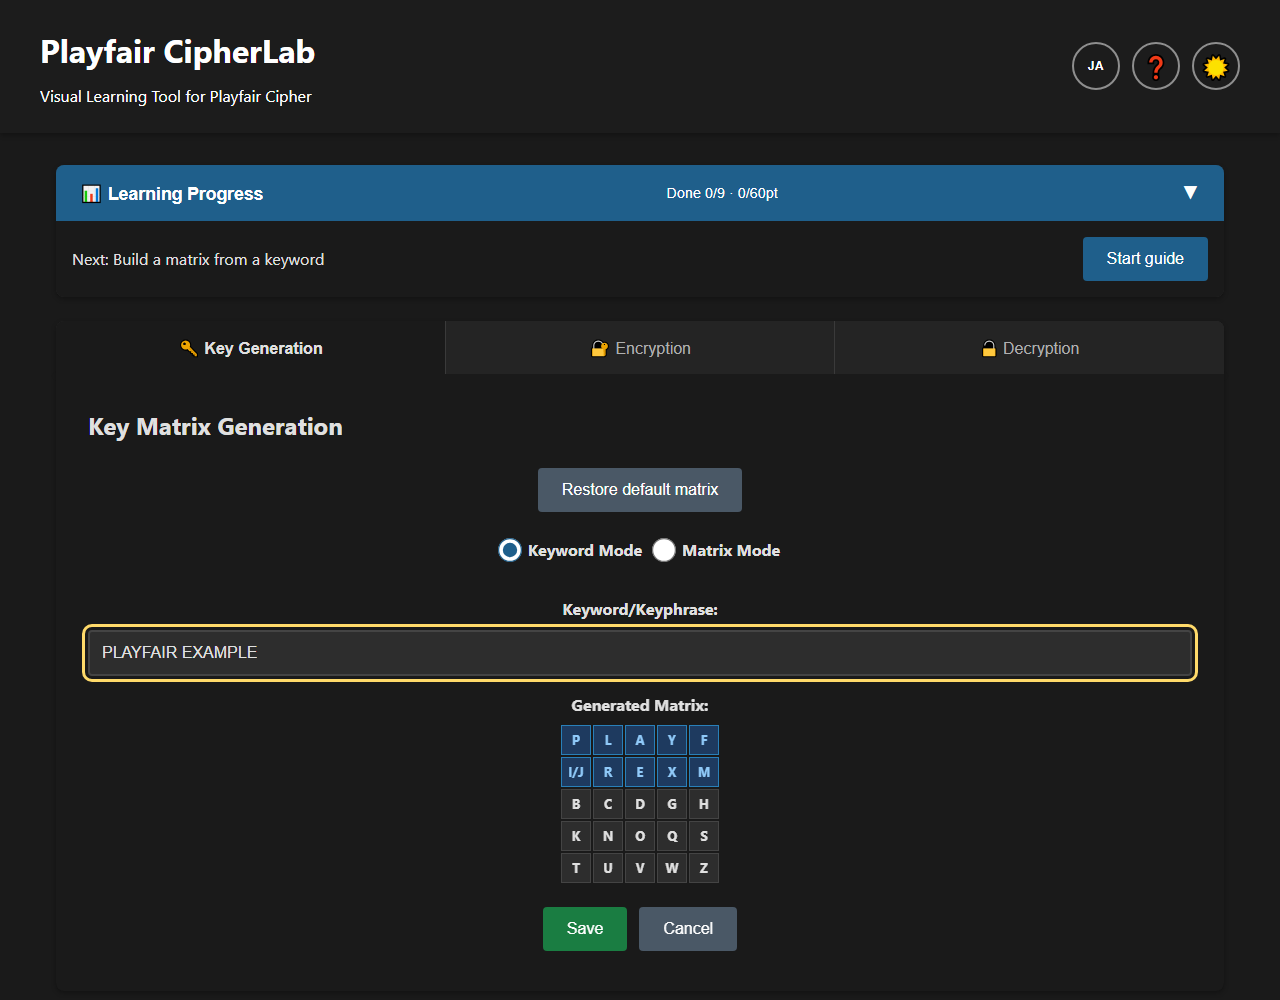
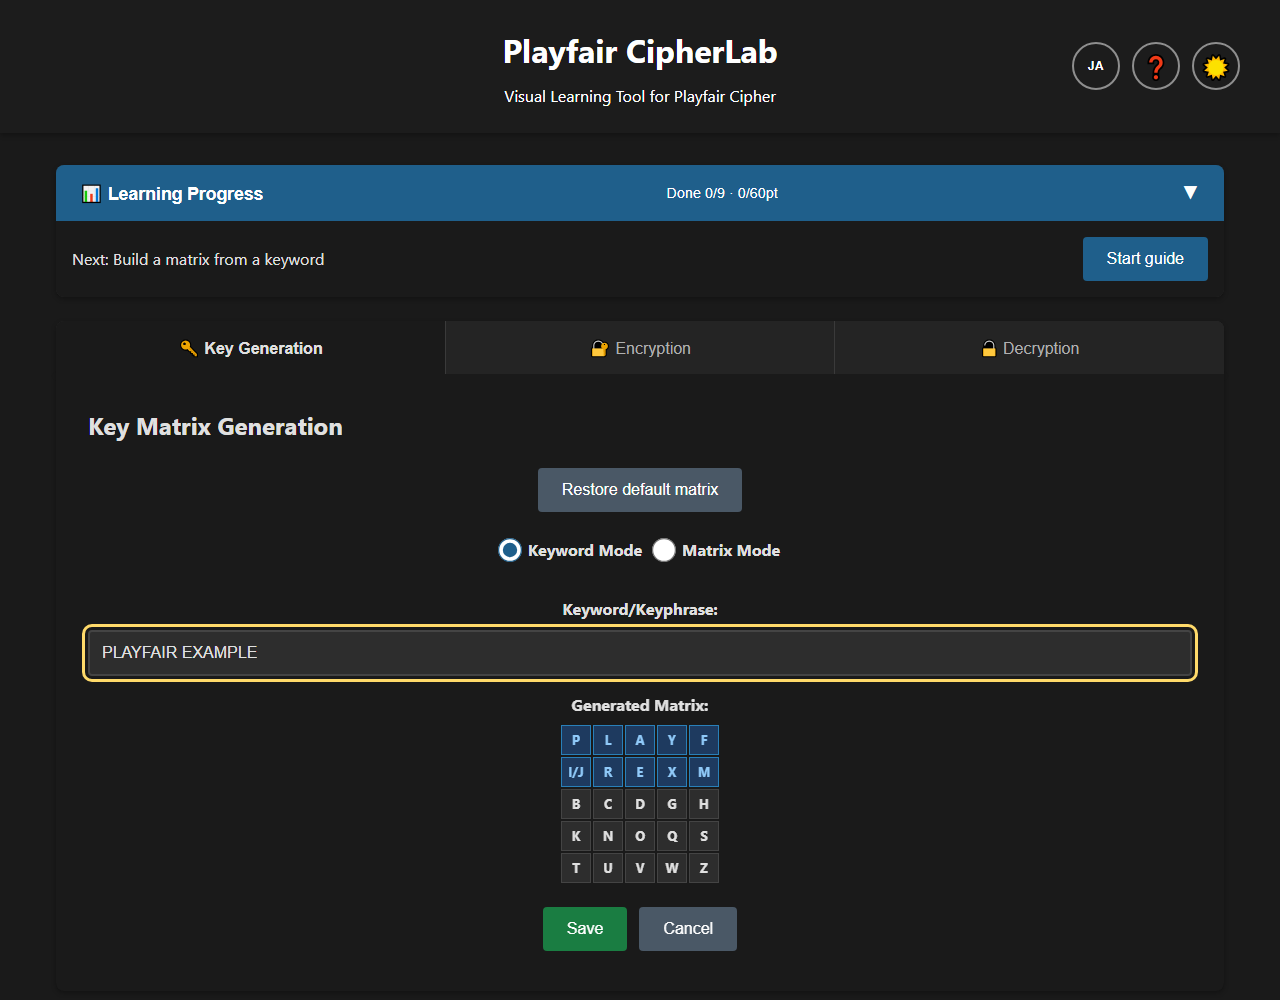
ヘッダーを中央に揃え、案内とフッターを改善

diff --git a/js/i18n.js b/js/i18n.js
@@ -29,7 +29,7 @@ class I18nManager {
                 "guide.complete": "達成しました",
                 "guide.advanced": "手順{n}に進みました",
                 "guide.previous": "前の手順を先に済ませてください",
-                "guide.restart": "『最初から』を押してから、『次』で1組ずつ進めてください",
+                "guide.restart": "『🔄 最初から再生』を押してから、『次』で1組ずつ進めてください",
                 "guide.disabled": "このボタンはいまは押せません。手順の文を確かめてください",
                 "guide.m3.remaining": "まだ見ていない規則: {rules}",
                 "guide.m3.missing": "この文には{rules}の組がありません。例文『既知の例』→『Wikipediaの例』なら3つともそろいます",
@@ -121,10 +121,8 @@ class I18nManager {
                 'decrypt-rule.no-change': '変種: 同じ文字のまま',
                 'decrypt-rule.right-shift': '変種: 左隣の文字へ戻す',
                 'decrypt-rule.bottom-right': '変種: 左上の文字へ戻す',
-                'footer.html':
-                    '🔗 GitHubリポジトリー（' +
-                    '<a href="https://github.com/ipusiron/playfair-cipherlab" ' +
-                    'target="_blank" rel="noopener noreferrer">ipusiron/playfair-cipherlab</a>）',
+                'footer.prefix': '🔗 GitHubリポジトリー（',
+                'footer.suffix': '）',
                 'help.body': `
 <section>
 <h3>鍵表と標準の規則</h3>
@@ -137,7 +135,7 @@ class I18nManager {
 <p>同じ文字の組を分割しない設定は標準ではありません。変化なし、右隣、右下の3つの変種を選べます。復号にも同じ変種を指定してください。</p>
 </section>
 <section><h3>再生と埋め文字の候補</h3>
-<p>前、再生、一時停止、次、最初から、最後までで組ごとの変換を確認できます。下線は追加した埋め文字です。</p>
+<p>前、再生、一時停止、次、🔄 最初から再生、最後までで組ごとの変換を確認できます。下線は追加した埋め文字です。</p>
 <p>復号の点線下線は埋め文字の候補です。候補を除いた文も並べますが、復号結果から自動では消しません。</p>
 <p>THE QUICK BROWN FOXの最後のXは本物ですが候補になります。候補を除くとTHEQUICKBROWNFOになり、元の文を失います。</p>
 </section>
@@ -558,10 +556,8 @@ class I18nManager {
                 'decrypt-rule.no-change': 'Variant: leave identical letters unchanged',
                 'decrypt-rule.right-shift': 'Variant: restore identical letters from the left',
                 'decrypt-rule.bottom-right': 'Variant: restore identical letters from the top left',
-                'footer.html':
-                    '🔗 GitHub repository (' +
-                    '<a href="https://github.com/ipusiron/playfair-cipherlab" ' +
-                    'target="_blank" rel="noopener noreferrer">ipusiron/playfair-cipherlab</a>)',
+                'footer.prefix': '🔗 GitHub repository (',
+                'footer.suffix': ')',
                 'help.body': `
 <section>
 <h3>Key matrix and standard rules</h3>
@@ -575,7 +571,7 @@ Decryption shifts left and up.</p>
 <p>Not splitting identical-letter pairs is nonstandard. Choose no change, right shift, or bottom-right shift. Use the same variant for decryption.</p>
 </section>
 <section><h3>Playback and padding candidates</h3>
-<p>Use Previous, Play, Pause, Next, Restart, and Go to end to inspect each pair. Underlines mark inserted padding.</p>
+<p>Use Prev, Play, Pause, Next, Restart Animation, and Go to end to inspect each pair. Underlines mark inserted padding.</p>
 <p>Dotted underlines in decrypted text mark possible padding. A separate line excludes these candidates, but the full decryption is never shortened
 automatically.</p>
 <p>The final X in THE QUICK BROWN FOX is genuine but is marked as a candidate. Removing it gives THEQUICKBROWNFO, losing part of the original message.</p>
@@ -1119,7 +1115,13 @@ automatically.</p>
     updateFooter() {
         const footerElement = document.querySelector('footer .footer');
         if (footerElement) {
-            footerElement.innerHTML = this.t('footer.html');
+            const link = document.createElement('a');
+            link.href = 'https://github.com/ipusiron/playfair-cipherlab';
+            link.target = '_blank';
+            link.rel = 'noopener noreferrer';
+            link.textContent = this.t('footer.link');
+            footerElement.textContent = this.t('footer.prefix');
+            footerElement.append(link, this.t('footer.suffix'));
         }
     }
 

diff --git a/test/i18n.test.js b/test/i18n.test.js
@@ -7,6 +7,55 @@ const root = path.join(__dirname, '..');
 const read = file => fs.readFileSync(path.join(root, file), 'utf8');
 const dictionaries = vm.runInNewContext(read('js/i18n.js') + '; i18n.translations;', {});
 
+test('C-1 footer construction does not use innerHTML', () => {
+    const method = vm.runInNewContext(read('js/i18n.js') + '; I18nManager.prototype.updateFooter.toString();', {});
+    assert.doesNotMatch(method, /innerHTML/);
+    assert.match(method, /document\.createElement\('a'\)/);
+    assert.match(method, /textContent/);
+});
+
+test('C-1 restart guidance includes the displayed button name in both languages', () => {
+    for (const dictionary of Object.values(dictionaries)) {
+        const label = dictionary['encrypt.restart'].replace(/^\p{Extended_Pictographic}\s*/u, '');
+        assert.ok(dictionary['guide.restart'].includes(label));
+    }
+});
+
+test('B-1 help playback names match the displayed controls', () => {
+    for (const dictionary of Object.values(dictionaries)) {
+        for (const key of ['anim.prev', 'anim.next', 'playback.play', 'playback.pause', 'encrypt.restart', 'playback.finish']) {
+            const label = dictionary[key].replace(/[\p{Extended_Pictographic}\uFE0F]/gu, '').trim();
+            assert.ok(dictionary['help.body'].includes(label), key);
+        }
+    }
+});
+
+test('B-2 footer keeps its exact text and safe link through language changes', () => {
+    const footer = {
+        nodes: [],
+        set textContent(value) { this.nodes = [value]; },
+        append(...nodes) { this.nodes.push(...nodes); }
+    };
+    const document = {
+        querySelector: selector => selector === 'footer .footer' ? footer : null,
+        createElement: tag => { assert.equal(tag, 'a'); return {}; }
+    };
+    const manager = vm.runInNewContext(read('js/i18n.js') + '; i18n;', { document });
+    for (const lang of ['ja', 'en', 'ja']) {
+        manager.currentLang = lang;
+        manager.updateFooter();
+        const [prefix, link, suffix] = footer.nodes;
+        assert.equal(footer.nodes.length, 3);
+        assert.equal(link.href, 'https://github.com/ipusiron/playfair-cipherlab');
+        assert.equal(link.target, '_blank');
+        assert.equal(link.rel, 'noopener noreferrer');
+        assert.equal(link.textContent, 'ipusiron/playfair-cipherlab');
+        assert.equal(prefix + link.textContent + suffix, lang === 'ja'
+            ? '🔗 GitHubリポジトリー（ipusiron/playfair-cipherlab）'
+            : '🔗 GitHub repository (ipusiron/playfair-cipherlab)');
+    }
+});
+
 test('K-4 dictionary keys match and no value is empty', () => {
     assert.deepEqual(Object.keys(dictionaries.ja).sort(), Object.keys(dictionaries.en).sort());
     for (const dictionary of Object.values(dictionaries)) {

diff --git a/css/styles.css b/css/styles.css
@@ -106,18 +106,21 @@ header {
     max-width: 1200px;
     margin: 0 auto;
     display: flex;
-    justify-content: space-between;
+    flex-direction: column;
     align-items: center;
+    gap: 0.75rem;
 }
 
 header h1 {
     font-size: 2rem;
     margin-bottom: 0.5rem;
+    text-align: center;
 }
 
 header p {
     font-size: 1rem;
     opacity: 1;
+    text-align: center;
 }
 
 .header-buttons {
@@ -1712,7 +1715,6 @@ header :focus-visible {
     outline-color: #ffffff;
 }
 
-.header-content,
 .progress-toggle,
 .editor-buttons,
 .answer-actions,
@@ -1785,11 +1787,6 @@ body.dark-mode .field-heading {
         flex: 1 1 auto;
     }
 
-    .header-content {
-        justify-content: center;
-        text-align: center;
-    }
-
     .tab-button {
         overflow-wrap: anywhere;
 
@@ -1800,6 +1797,23 @@ body.dark-mode .field-heading {
 }
 
 @media (min-width: 769px) {
+    .header-content {
+        display: grid;
+        grid-template-columns: minmax(0, 1fr) auto minmax(0, 1fr);
+        align-items: center;
+    }
+
+    .header-content > div:first-child {
+        grid-column: 2;
+        grid-row: 1;
+    }
+
+    .header-buttons {
+        grid-column: 3;
+        grid-row: 1;
+        justify-self: end;
+    }
+
     .exercise-select {
         width: auto;
         flex: 1;

diff --git a/test/html.test.js b/test/html.test.js
@@ -5,6 +5,15 @@ const path = require('node:path');
 const html = fs.readFileSync(path.join(__dirname, '../index.html'), 'utf8');
 const attribute = (tag, name) => tag.match(new RegExp(`\\b${name}="([^"]*)"`))?.[1];
 
+test('C-1 desktop header uses a symmetric grid from 769px', () => {
+    const css = fs.readFileSync(path.join(__dirname, '../css/styles.css'), 'utf8');
+    const desktopHeader = css.match(/@media\s*\(min-width:\s*769px\)\s*\{\s*\.header-content\s*\{([^}]+)\}/);
+    assert.ok(desktopHeader);
+    assert.match(desktopHeader[1], /display:\s*grid\s*;/);
+    assert.match(desktopHeader[1], /grid-template-columns:\s*minmax\(0,\s*1fr\) auto minmax\(0,\s*1fr\)\s*;/);
+    assert.match(desktopHeader[1], /align-items:\s*center\s*;/);
+});
+
 test('K-5 CSP, referrer, noscript, and safe markup', () => {
     const csp = html.match(/<meta\b[^>]*http-equiv="Content-Security-Policy"[^>]*>/)?.[0];
     assert.ok(csp);
